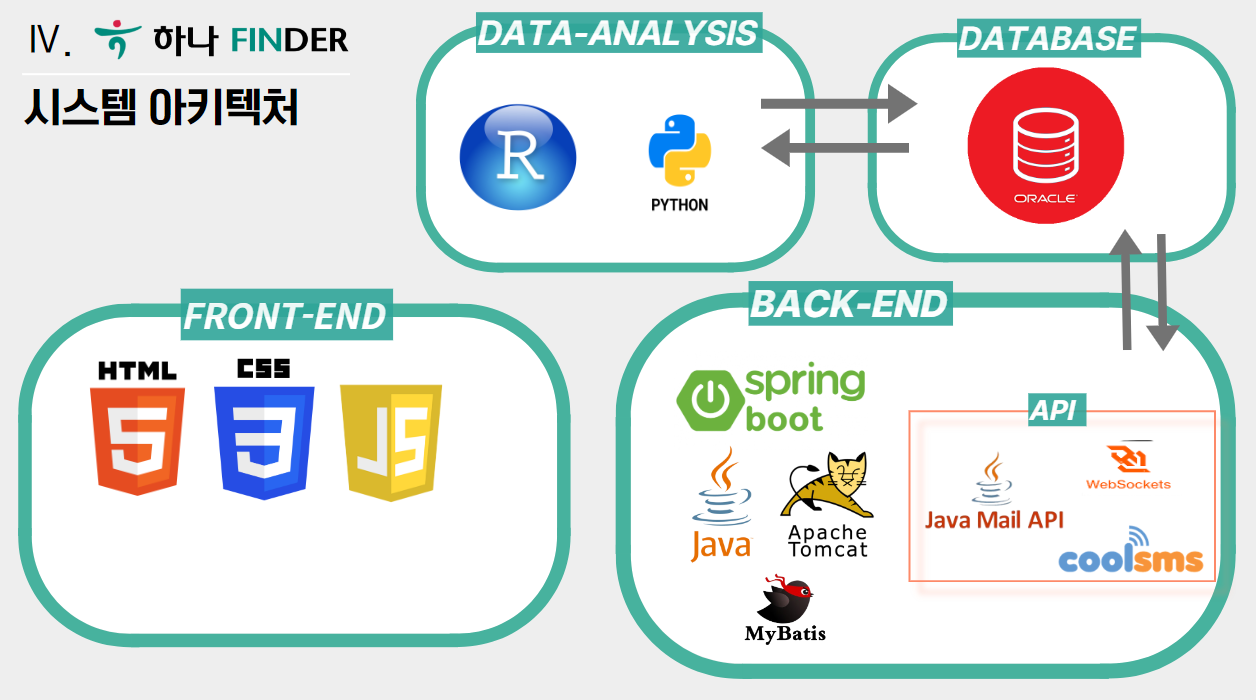
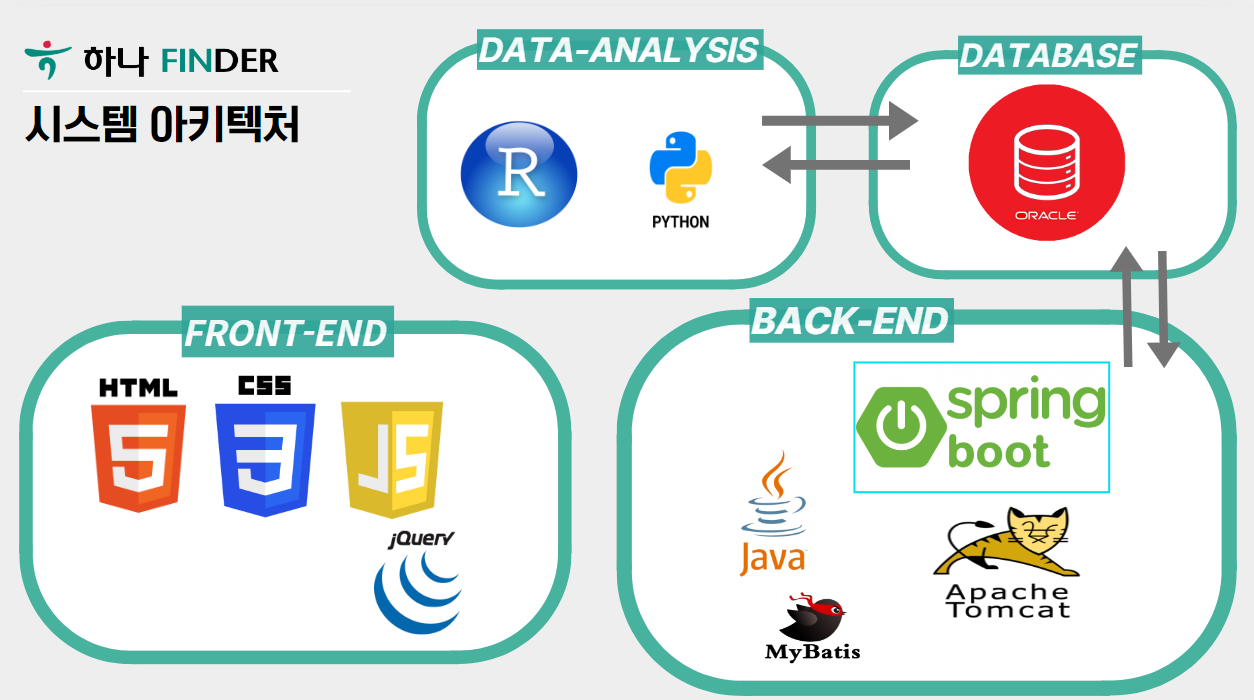
hhh

Changed region(s): [[0.0, 0.0, 0.9952, 1.0], [0.0, 0.03, 0.2799, 0.21], [0.0, 0.63, 0.0311, 0.75]]

diff --git a/README.md b/README.md
@@ -113,6 +113,7 @@
 
 # 사용 기술
 
+<img src="skill.png" style="margin-left:50%;">
 
  *  Spring-MVC 기반 웹 개발<br>
  *  Python을 활용한 가상의 데이터 생성<br>
@@ -140,7 +141,7 @@
 
 # 시스템 아키텍처
 
-<img src="architecture.png">
+<img src="architecture.png" style="margin-left:50%;">
 
 
 <hr>
